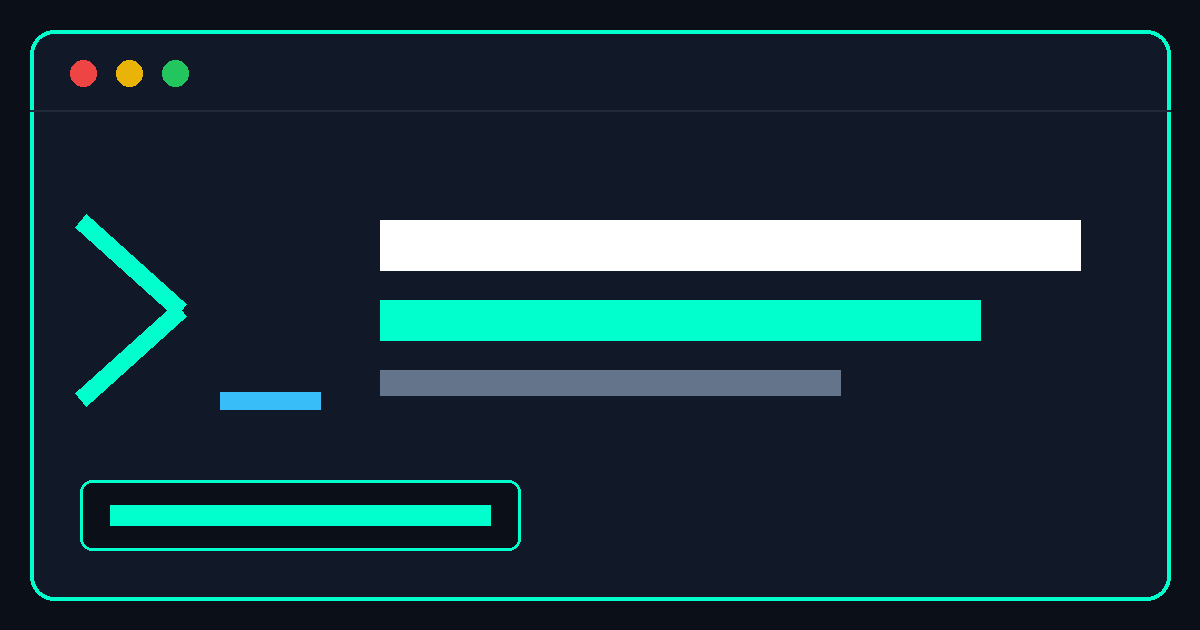
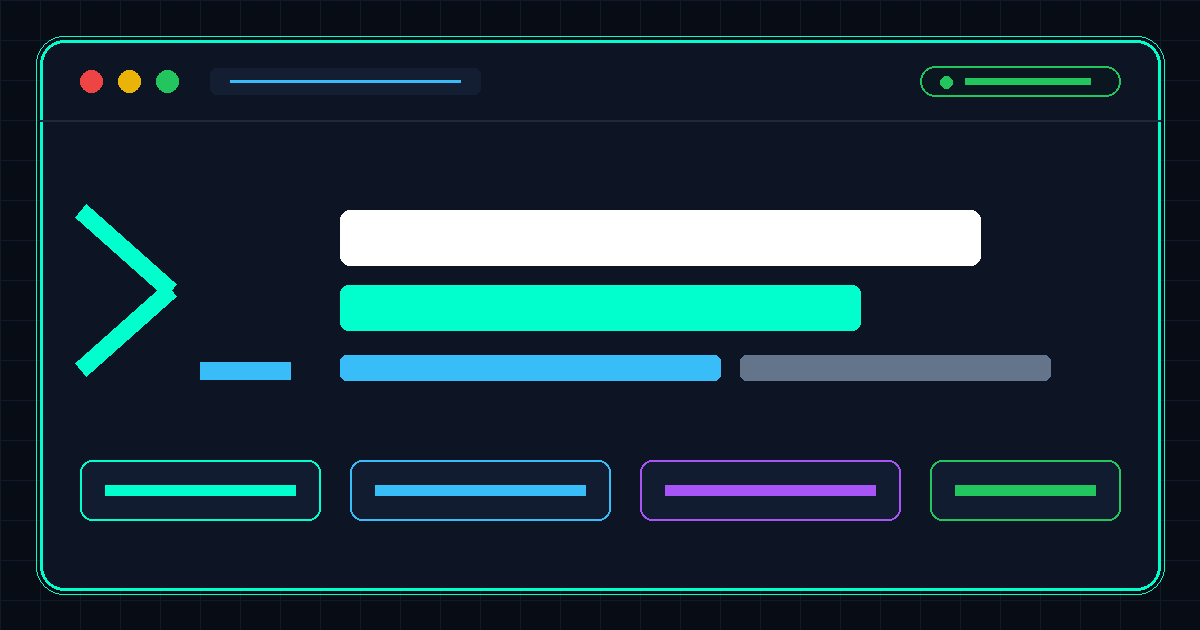
feat: rich cyberpunk card graphic with grid and multi-color chips

diff --git a/index.html b/index.html
@@ -13,9 +13,9 @@
   <meta property="og:title" content="Dev-Ops-Architect | Έξυπνοι Αυτοματισμοί & Web Architecture">
   <meta property="og:description" content="Αυτοματοποιήστε τις ρουτίνες σας και αποκτήστε ταχύτατη ψηφιακή παρουσία.">
 
-    <meta property="og:image" content="https://my-app-eta-seven-12.vercel.app/og-image.png?v=6">
+    <meta property="og:image" content="https://my-app-eta-seven-12.vercel.app/og-image.png?v=7">
   <meta name="twitter:card" content="summary_large_image">
-  <meta name="twitter:image" content="https://my-app-eta-seven-12.vercel.app/og-image.png?v=6">
+  <meta name="twitter:image" content="https://my-app-eta-seven-12.vercel.app/og-image.png?v=7">
   <link rel="icon" href="favicon.svg" type="image/svg+xml">
   <link rel="preconnect" href="https://fonts.googleapis.com">
   <link rel="preconnect" href="https://fonts.gstatic.com" crossorigin>
